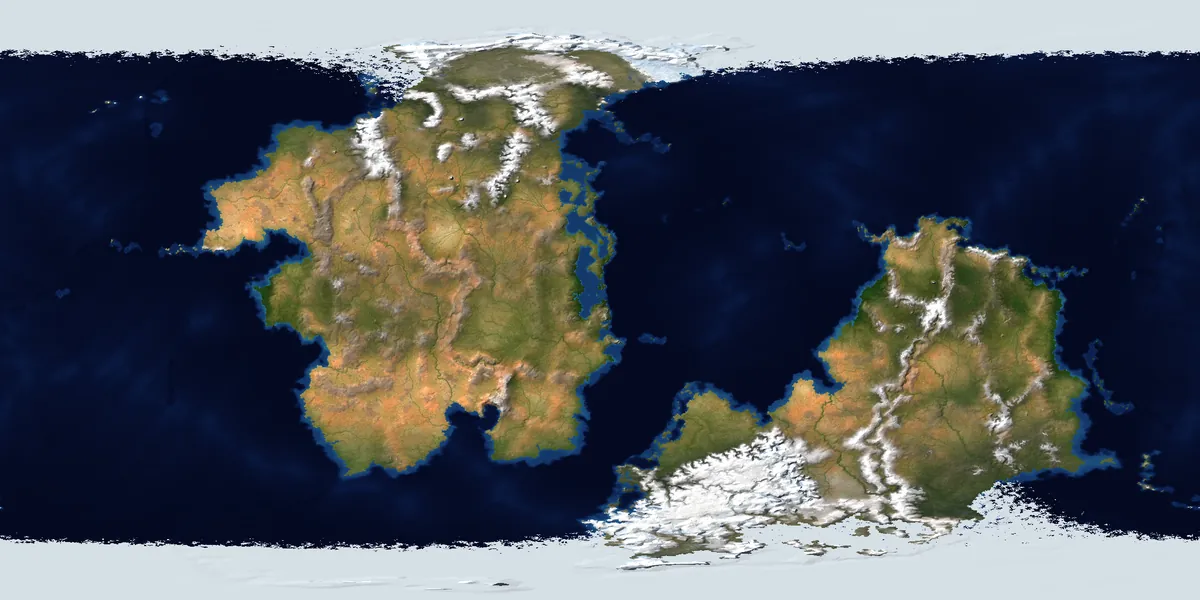
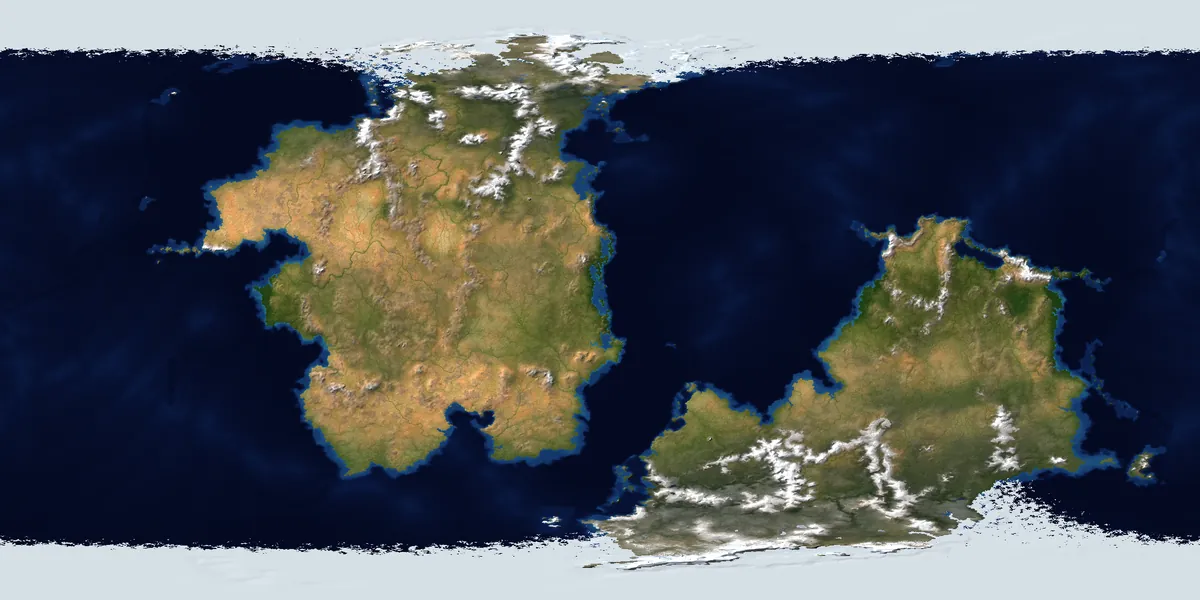
Studio: Generate's worlds retaken on main's Generate
Halden and Merrin from the same planet codes (so the same continents) on
the Generate main now has (#144): its ranges carved into massifs, drawn by
its own Export maps in this stack's look, Satellite, Terrain and Plates.
Calder and Linmore, rebuilt on the merged code, came out byte for byte the
same, so their pictures and the turning globe's maps stay as they are.

diff --git a/plans/REDESIGN_PLAN.md b/plans/REDESIGN_PLAN.md
@@ -489,9 +489,11 @@ each checked in the browser.
   (`?seed=319958795&cont=30&len=1200&end=none&sim=40000&terrain=160000&more=1410`, 1,410 Myr: one supercontinent, pole to
   pole; drawn centred on 180°) and Linmore (`…seed=413761762…&more=1600`, 1,600 Myr), also in Terrain and Rocks: built in
   the owner's Chrome 155 (a link's history differs between browser versions), detail added at the page's default 2.5M
-  cells and drawn by this stack's own Export maps at 4096 px. The Generate and Import pictures come from the new pages
-  on the shared core (generate/u5-switch-over, PR #134: the owner's call), drawn by their own Export maps at 2048 px;
-  they predate this stack's light and colours (R5, R6), so they are retaken once both stacks are in.
+  cells and drawn by this stack's own Export maps at 4096 px. Once main took the Generate redesign (#144) and the stack
+  merged it, Generate's were retaken (the owner's ask): the same planet codes and so the same continents, main's ranges,
+  drawn by its Export maps at 2048 px in this stack's look; Evolution's, rebuilt on the merged code, came out byte for
+  byte the same. Import's still come from the shared core's switch-over (generate/u5-switch-over, PR #134), before this
+  stack's light and colours (R5, R6).
 - [x] Copy (the owner's words): the hero's buttons read **Generate your world** and **Evolve your world**; Import
   Heightmap is now just **Import**, one word like Generate and Evolution (the nav, its page, the Studio, the exports'
   notes, llms.txt and the docs; VISION.md waits for the owner); Evolution's **Geology** is out of beta and **Food** keeps
